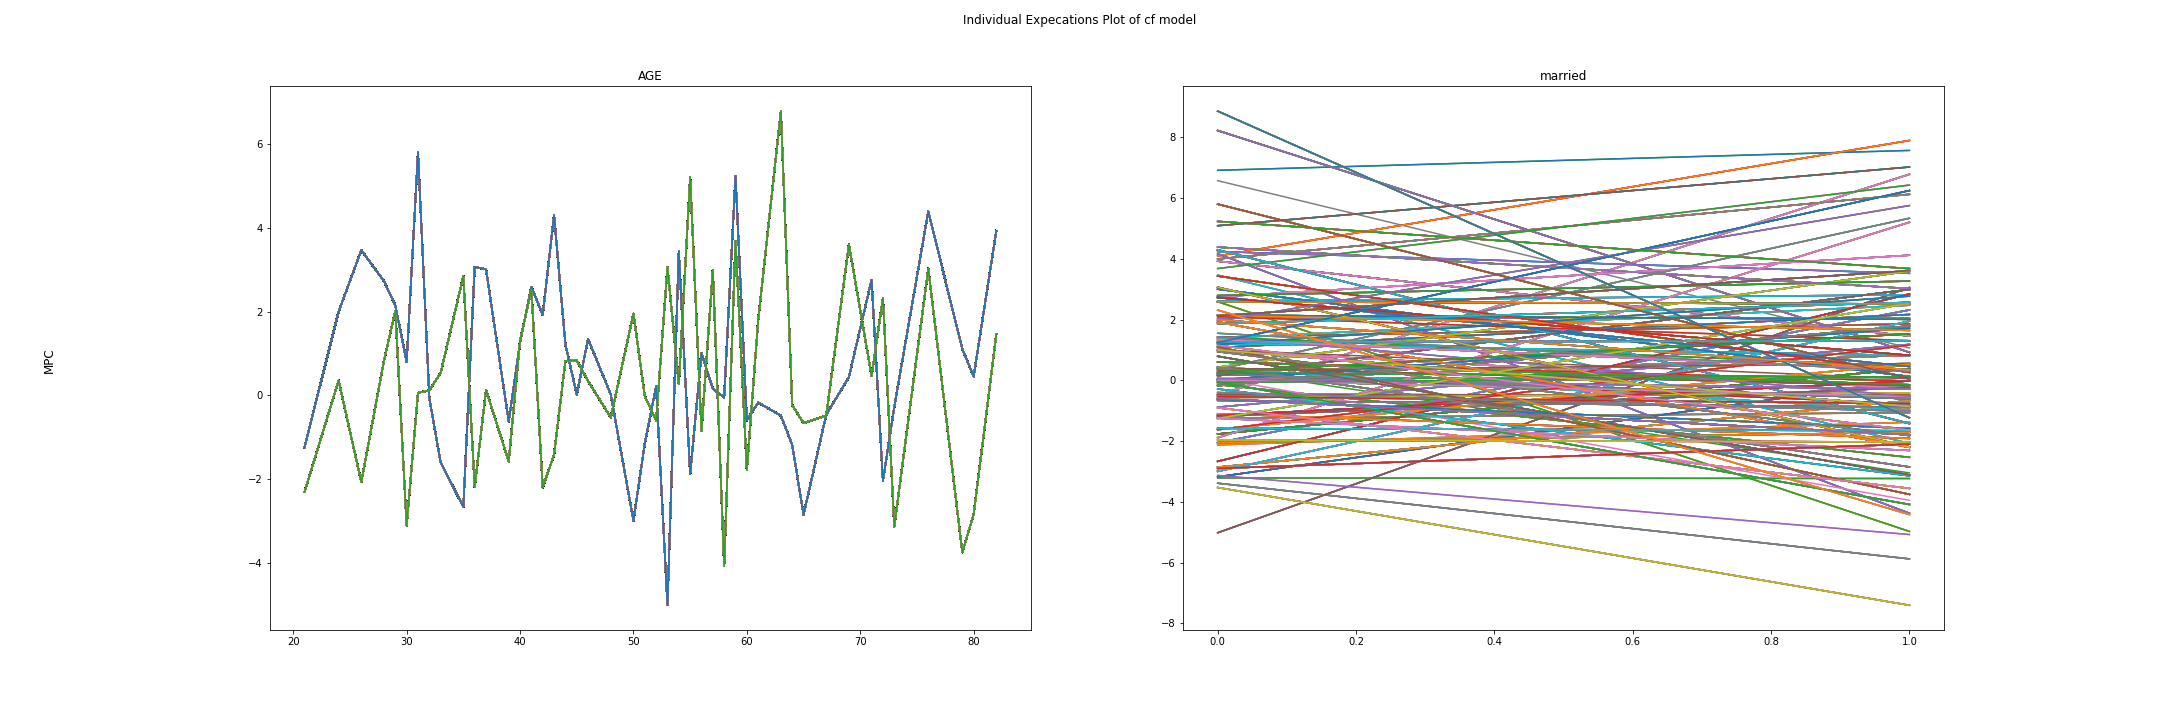
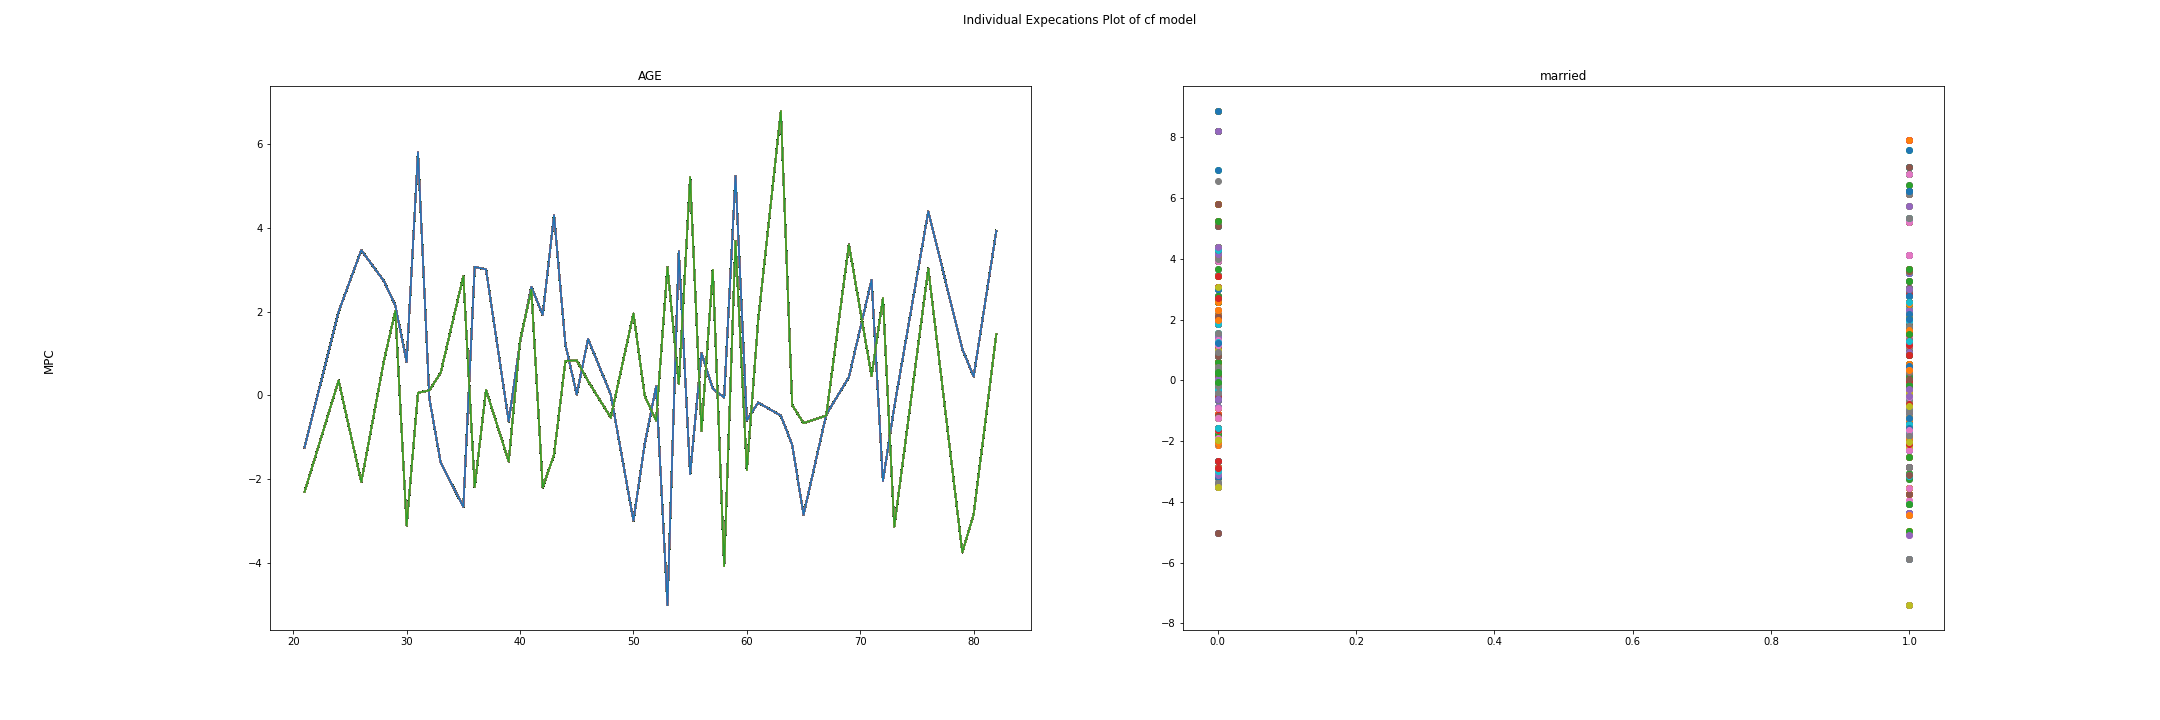
add figures folder and some updates

Changed region(s): [[0.5583, 0.1528, 0.8995, 0.7639], [0.8065, 0.7944, 0.8375, 0.825], [0.7444, 0.7639, 0.7755, 0.7944]]

diff --git a/src/analysis/baseline_dml/baseline_specs.py b/src/analysis/baseline_dml/baseline_specs.py
@@ -173,6 +173,9 @@ def all_ice_plots(xaxes, yaxes, model):
     *yaxes=dict of dicts; structure {model: {var: y_axis values}}
     *model=str; which model should be plotted, must be 'linear', 'cf' or ''
     '''
+    xaxes=spec3_est.x_axis_ice
+    yaxes=spec3_est.y_axis_ice 
+    model='linear'
     #first get names of variables from x-axis dictionary
     variables=xaxes.keys()
     #define dimensions of figure - how many cols, how many rows 
@@ -183,6 +186,8 @@ def all_ice_plots(xaxes, yaxes, model):
     n_rows=getrows(n_cols, variables)
     #set up figure
     fig, axes=plt.subplots(nrows=n_rows, ncols=n_cols, figsize=[30, 10])
+    if n_rows>1:
+        axes=axes.flatten()
     #for each variable plot all lines on one axis
     for i, var in enumerate(variables): 
         #get x-axis 
@@ -307,10 +312,7 @@ spec1_est.fit_linear(params_Y=best_params_Y, params_T=best_params_R, folds=folds
 #fit causal forest model
 folds=5
 spec1_est.fit_cfDML(params_Y=best_params_Y, params_T=best_params_R, folds=folds)
-#* Estimation: Sparse Linear Regression 
-folds=5
-featurizer=PolynomialFeatures(degree=5, include_bias=False)
-spec1_est.fit_sparseDML(params_Y=best_params_Y, params_T=best_params_R, folds=folds, feat=featurizer)
+
 print('Spec 1 done')
 
 #*#########################
@@ -483,7 +485,7 @@ all_pdp_plots(spec3_est.x_axis_pdp, spec3_est.y_axis_pdp, model='cf')
 #get all ICE axes for specifications 
 #linear model
 spec3_est.all_ice_axis(model='linear')
-all_ice_plots(spec3_est.x_axis, spec3_est.y_axis_ice, model='linear')
+all_ice_plots(spec3_est.x_axis_ice, spec3_est.y_axis_ice, model='linear')
 #cf model 
 spec3_est.all_ice_axis(model='cf')
 all_ice_plots(spec3_est.x_axis_ice, spec3_est.y_axis_ice, model='cf')
